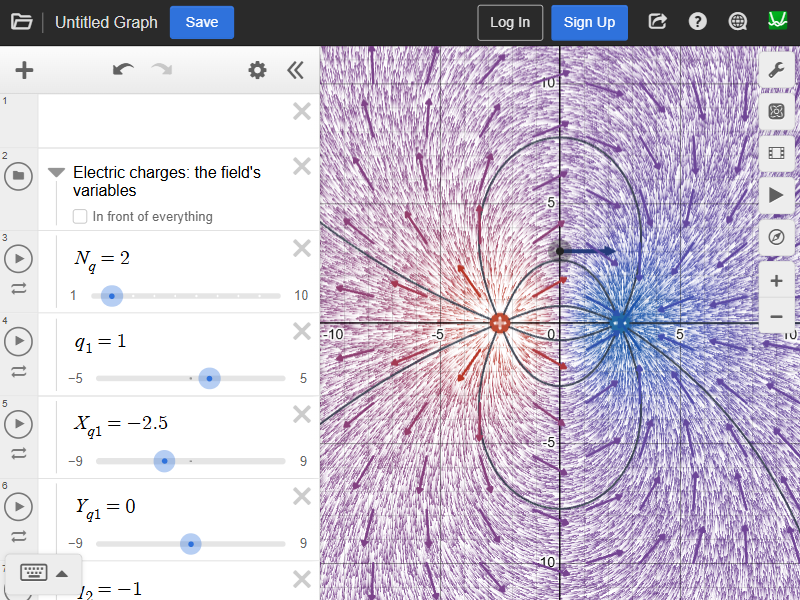
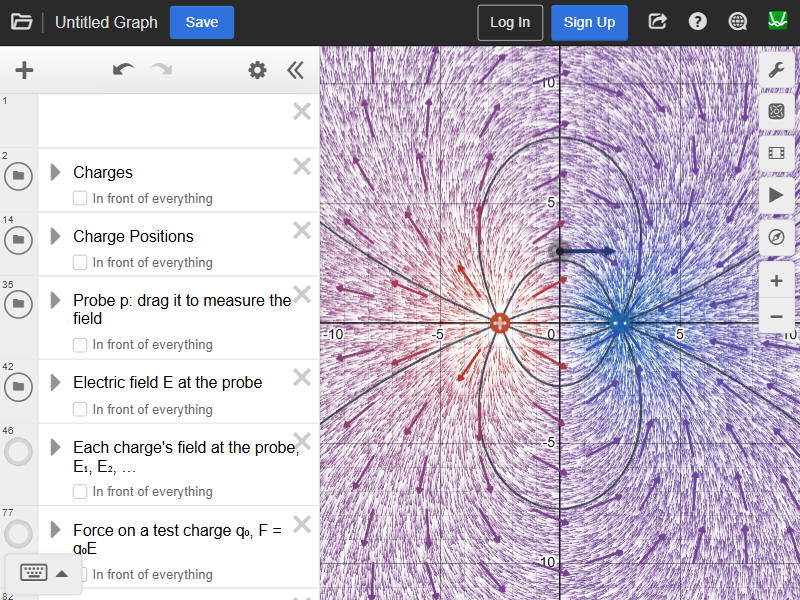
Name the charges folders as Rafael did; follow field lines past the view
The folders now carry the titles Rafael gave them in the graph: Charges,
Probe p, Electric field E at the probe, Each charge's field, Force, Field
lines, Equipotentials Drawing, Electric Charge Drawing, and Electric Field
Drawing for the preset's Desmos arrows. The charges' X and Y sliders move
to a Charge Positions folder of their own, so Charges holds only N_q and
each charge's size.

The field lines were cut off 1.25 times the extent out. A dipole's outer
lines leave the view and come back round to the negative charge, so they
never arrived. The negative charge then made up the lines it was missing
from the widest gaps, and the picture was lopsided: a line out of + on one
side, none into - on the other. Lines are now followed eight extents out,
with steps that lengthen far from every charge. The preset's pair now
sends all eight lines from + to -, and the picture is its own mirror image
(a new test, which fails on the old tracer by 2.1 units).

Changed region(s): [[0.0, 0.06, 1.0, 1.0], [0.0, 0.27, 0.3438, 0.78], [0.0, 0.99, 0.0312, 1.0]]

diff --git a/src/field-rendering/gallery/physics.ts b/src/field-rendering/gallery/physics.ts
@@ -162,10 +162,13 @@ const probeSwitches = (gain: number, max: number): GalleryVariable[] => [
  * The charges preset's parts, each a folder whose icon shows and hides it
  * (Rafael, 2026-11-09), in the order a lesson meets them: the charges, the
  * probe, the field there, its parts, the force, then the lines and the
- * equipotentials. The hidden helpers fold away at the end.
+ * equipotentials. The hidden helpers fold away at the end. The titles are
+ * Rafael's, as he renamed them in the graph on 2026-11-09; the charges'
+ * places have a folder of their own, apart from their sizes.
  */
 const CHARGE_GROUPS: SceneGroup[] = [
-  { id: "charges", title: "Charges: how many, their sizes and places" },
+  { id: "charges", title: "Charges" },
+  { id: "positions", title: "Charge Positions" },
   { id: "probe", title: "Probe p: drag it to measure the field" },
   { id: "net", title: "Electric field E at the probe", toggle: "s_{net}" },
   {
@@ -179,8 +182,15 @@ const CHARGE_GROUPS: SceneGroup[] = [
     toggle: "s_{force}",
   },
   { id: "lines", title: "Field lines", toggle: "s_{lines}" },
-  { id: "equi", title: "Equipotentials", toggle: "s_{equi}" },
+  { id: "equi", title: "Equipotentials Drawing", toggle: "s_{equi}" },
+  { id: "helpers", title: "Electric Charge Drawing" },
 ];
+
+/** A charge's X, Y or Z slider goes in the positions' folder. */
+const placed = (variables: GalleryVariable[]) =>
+  variables.map((v) =>
+    /^[XYZ]_\{q\d+\}$/.test(v.name) ? { ...v, group: "positions" } : v
+  );
 
 /** Which part a shown object of the charges preset belongs to. */
 function chargeGroup(item: SceneItem): SceneItem {
@@ -328,7 +338,7 @@ const CHARGES_PRESET: GalleryPreset = {
   yLatex: GPU_2D.field[1],
   seedLatex: GPU_2D.seed,
   variables: [
-    ...chargeVariables(LAYOUT_2D, 2, [-5, 5, 0.1]),
+    ...placed(chargeVariables(LAYOUT_2D, 2, [-5, 5, 0.1])),
     { ...v("p_{x}", 0, -9, 9, 0.05), group: "probe" },
     { ...v("p_{y}", 3, -9, 9, 0.05), group: "probe" },
     ...probeSwitches(30, 100),
@@ -337,6 +347,7 @@ const CHARGES_PRESET: GalleryPreset = {
   ],
   scene: CHARGES_SCENE_2D.map(chargeGroup),
   groups: CHARGE_GROUPS,
+  arrowsTitle: "Electric Field Drawing",
   chargeLines: { radius: Number(CHARGE_RADIUS_2D), extent: 10 },
   onPaper: true,
   palette: "charge",
@@ -360,7 +371,7 @@ const CHARGES_PRESET: GalleryPreset = {
     zLatex: GPU_3D.field[2],
     seedLatex: GPU_3D.seed,
     variables: [
-      ...chargeVariables(LAYOUT_3D, 3, [-5, 5, 0.1]),
+      ...placed(chargeVariables(LAYOUT_3D, 3, [-5, 5, 0.1])),
       { ...v("p_{x}", 0, -5, 5, 0.05), group: "probe" },
       { ...v("p_{y}", 1.5, -5, 5, 0.05), group: "probe" },
       { ...v("p_{z}", 1, -5, 5, 0.05), group: "probe" },

diff --git a/src/plugins/vector-tools/vector-tools.int.test.ts b/src/plugins/vector-tools/vector-tools.int.test.ts
@@ -2248,8 +2248,9 @@ testWithPage(
       "folder",
       "N_{q}=2",
       "q_{1}=1",
-      "X_{q1}=-2.5",
-      "Y_{q1}=0",
+      // The places follow in a folder of their own (2026-11-09).
+      "q_{2}=-1",
+      "q_{3}=1",
     ]);
     expect(loaded).toContain("s_{net}=1");
     expect(loaded).toContain(String.raw`\left(p_{x},p_{y}\right)`);
@@ -2354,6 +2355,7 @@ testWithPage(
       );
     expect(await folders()).toEqual([
       ["charges", false],
+      ["positions", false],
       ["probe", false],
       ["net", false],
       ["parts", true],
@@ -2362,6 +2364,42 @@ testWithPage(
       ["equi", true],
       ["helpers", false],
     ]);
+    // Named as Rafael named them in the graph (2026-11-09), the Desmos
+    // arrows' folder among them.
+    const titles = await driver.evaluate(() =>
+      Calc.getState()
+        .expressions.list.filter((e) => e.type === "folder")
+        .map((e) => (e as { title?: string }).title)
+    );
+    expect(titles).toEqual([
+      "Charges",
+      "Charge Positions",
+      "Probe p: drag it to measure the field",
+      "Electric field E at the probe",
+      "Each charge's field at the probe, E₁, E₂, …",
+      "Force on a test charge q₀, F = q₀E",
+      "Field lines",
+      "Equipotentials Drawing",
+      "Electric Charge Drawing",
+      "Electric Field Drawing",
+    ]);
+    // The charges' places are apart from their sizes.
+    const positions = await driver.evaluate(() =>
+      Calc.getState()
+        .expressions.list.filter(
+          (e) =>
+            (e as { folderId?: string }).folderId ===
+            "vector_tools_variables_folder_positions"
+        )
+        .map((e) => (e as { latex: string }).latex.split("=")[0])
+    );
+    expect(positions.slice(0, 4)).toEqual([
+      "X_{q1}",
+      "Y_{q1}",
+      "X_{q2}",
+      "Y_{q2}",
+    ]);
+    expect(positions).toHaveLength(20);
     // Every hidden helper and every switch is out of the way, and the
     // charges' folder is its sliders alone: what a student sets.
     const misplaced = await driver.evaluate(() =>

diff --git a/src/plugins/vector-tools/index.ts b/src/plugins/vector-tools/index.ts
@@ -259,11 +259,16 @@ function groupedLayout(
         ? {}
         : { hidden: (value.get(g.toggle) ?? 1) === 0, resetHidden: true }),
     })),
-    {
-      id: groupFolderID(HELPERS_GROUP),
-      title: `${title}: how it is drawn (nothing to set here)`,
-      collapsed: true,
-    },
+    // Last, unless the preset places and names it itself.
+    ...(groups.some((g) => g.id === HELPERS_GROUP)
+      ? []
+      : [
+          {
+            id: groupFolderID(HELPERS_GROUP),
+            title: `${title}: how it is drawn (nothing to set here)`,
+            collapsed: true,
+          },
+        ]),
   ].filter((f) => used.has(f.id.slice(groupFolderID("").length)));
   return { folders, variables: vars, scene: items };
 }
@@ -3238,9 +3243,10 @@ export default class VectorTools extends PluginController<VectorToolsSettings> {
     if (config.id !== PRESET_FIELD_ID || this.is3d) return;
     try {
       const plan = createVectorFieldPlan(config, this.generationOptions);
+      const title = galleryPreset(this.activePresetId ?? "")?.arrowsTitle;
       this.expressions.applyGeneratedSet(
         plan.namespace,
-        { ...plan.folder, hidden: true },
+        { ...plan.folder, hidden: true, ...(title ? { title } : {}) },
         plan.expressions,
         {
           ticker: this.tickerToWrite(plan),

diff --git a/src/field-rendering/gallery/charge-lines.ts b/src/field-rendering/gallery/charge-lines.ts
@@ -101,7 +101,13 @@ function trace(
   options: Required<FieldLineOptions>
 ) {
   const { radius, extent, maxSteps } = options;
-  const limit = extent * 1.25;
+  // Followed well past the picture, not cut at its edge: a dipole's outer
+  // lines leave the view and come back round to the negative charge. Cut
+  // at 1.25 × the extent, they never arrived, and the negative charge made
+  // up the lines it was missing from the widest gaps, so the picture was
+  // lopsided: a line out of + on one side, none into − on the other
+  // (Rafael, 2026-11-09: "the field lines are wrong").
+  const limit = extent * 8;
   let [x, y] = start;
   const xs = [x];
   const ys = [y];
@@ -113,7 +119,10 @@ function trace(
     let nearest = Infinity;
     for (const c of charges)
       nearest = Math.min(nearest, Math.hypot(x - c.x, y - c.y));
-    const h = Math.min(0.25, Math.max(0.01, 0.15 * nearest));
+    // Out past the picture, where nothing is drawn finely, the steps
+    // lengthen with the distance, so a long loop costs few of them.
+    const cap = nearest > extent ? 0.1 * nearest : 0.25;
+    const h = Math.min(cap, Math.max(0.01, 0.15 * nearest));
     const k1 = direction(charges, x, y, sign);
     if (k1 === undefined) return { xs, ys, end: -1 };
     const k2 = direction(

diff --git a/src/field-rendering/gallery/charge-lines.unit.test.ts b/src/field-rendering/gallery/charge-lines.unit.test.ts
@@ -64,6 +64,31 @@ describe("traceFieldLines", () => {
     expect(lines.lines).toBeLessThanOrEqual(12);
   });
 
+  test("an equal dipole's lines are its mirror image", () => {
+    // The preset's own pair. Each line out of + is a line into −: the
+    // picture reflected left to right is itself, which the lines cut at
+    // the picture's edge were not.
+    const charges = [
+      { q: 1, x: -2.5, y: 0 },
+      { q: -1, x: 2.5, y: 0 },
+    ];
+    const lines = traceFieldLines(charges, { radius: 0.4, extent: 10 });
+    const points: [number, number][] = [];
+    for (let i = 0; i < lines.xs.length; i++)
+      if (Math.abs(lines.xs[i]) < 7 && Math.abs(lines.ys[i]) < 7)
+        points.push([lines.xs[i], lines.ys[i]]);
+    // Every visible point has a point near its mirror image, as far as a
+    // line's points are spaced.
+    let worst = 0;
+    for (const [x, y] of points) {
+      let best = Infinity;
+      for (const [u, v] of points)
+        best = Math.min(best, Math.hypot(u + x, v - y));
+      worst = Math.max(worst, best);
+    }
+    expect(worst).toBeLessThan(0.45);
+  });
+
   test("a lone negative charge sends its lines back out", () => {
     const lines = traceFieldLines([{ q: -1, x: 0, y: 0 }], opts);
     expect(lines.lines).toBe(8);

diff --git a/src/field-rendering/gallery/types.ts b/src/field-rendering/gallery/types.ts
@@ -203,6 +203,8 @@ export interface GalleryPreset {
    * go in one folder, the field's variables.
    */
   groups?: readonly SceneGroup[];
+  /** The title of the folder of its Desmos arrows, if not the usual. */
+  arrowsTitle?: string;
   /**
    * Drawn on the graph paper, as a textbook figure is: no dark backdrop, and
    * the flow faint and under Desmos's objects, which carry the picture.
